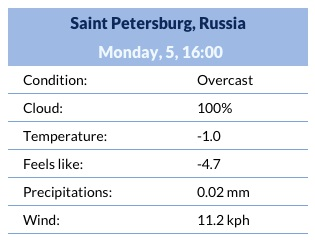
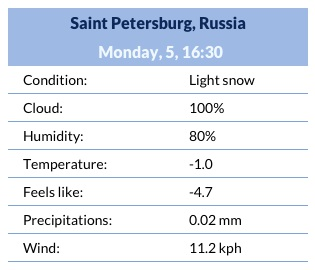
fixed: requirements

Changed region(s): [[0.0286, 0.1736, 1.0, 0.9835], [0.0286, 0.0289, 0.9714, 0.1446]]

diff --git a/html/current_weather_index.html b/html/current_weather_index.html
@@ -15,13 +15,14 @@
 			<th colspan="2" class="header">Saint Petersburg, Russia</th>
 		</tr>
 		<tr>
-			<th colspan="2" class="header"><span>Monday, 5, 16:00</span></th>
+			<th colspan="2" class="header"><span>Monday, 5, 16:30</span></th>
 		</tr>
 	</thead>
 
 	<tbody class="table_body">
-			<tr><td>Condition:</td><td>Overcast</td></tr>
+			<tr><td>Condition:</td><td>Light snow</td></tr>
 			<tr><td>Cloud:</td><td>100%</td></tr>
+			<tr><td>Humidity:</td><td> 80%</td></tr>
 			<tr><td>Temperature:</td><td> -1.0</td></tr>
 			<tr><td>Feels like:</td><td> -4.7</td></tr>
 			<tr><td>Precipitations:</td><td> 0.02 mm</td></tr>
